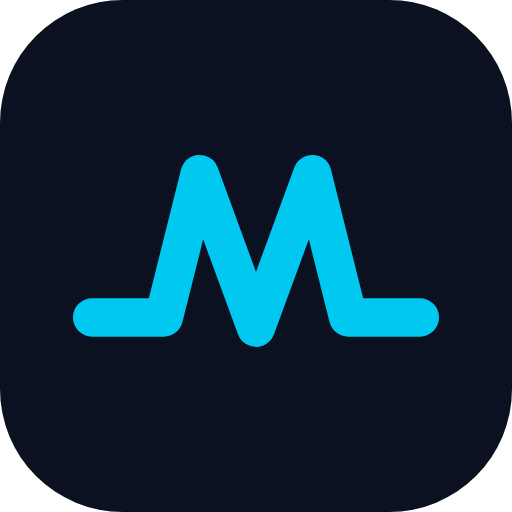
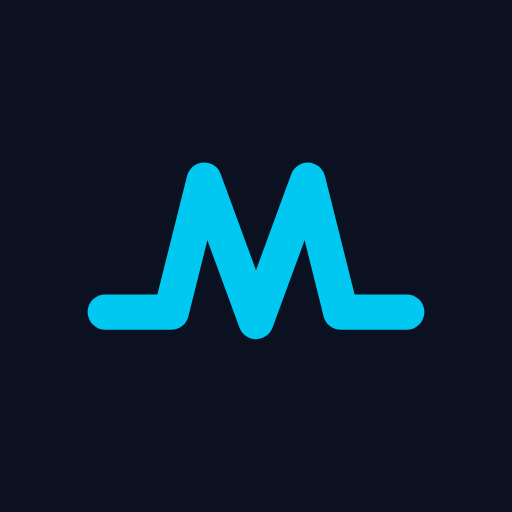
Íconos sin transparencia: fondo completo para que iOS y Android no muestren bordes blancos

diff --git a/index.html b/index.html
@@ -4,8 +4,8 @@
 <meta charset="UTF-8">
 <meta name="viewport" content="width=device-width,initial-scale=1,maximum-scale=1,user-scalable=no,viewport-fit=cover">
 <title>MedIA Suite</title>
-<link rel="manifest" href="manifest.json">
-<link rel="apple-touch-icon" href="apple-touch-icon.png?v=2">
+<link rel="manifest" href="manifest.json?v=3">
+<link rel="apple-touch-icon" href="apple-touch-icon.png?v=3">
 <meta name="apple-mobile-web-app-capable" content="yes">
 <meta name="mobile-web-app-capable" content="yes">
 <meta name="apple-mobile-web-app-status-bar-style" content="black-translucent">

diff --git a/sw.js b/sw.js
@@ -1,4 +1,4 @@
-const CACHE = 'media-suite-v43';
+const CACHE = 'media-suite-v44';
 const ASSETS = [
   './index.html',
   './manifest.json',
@@ -7,6 +7,7 @@ const ASSETS = [
   './apple-touch-icon.png',
   './icon.svg',
   './favicon-32.png',
+  './icon-maskable-192.png',
   './icon-maskable-512.png'
 ];
 
